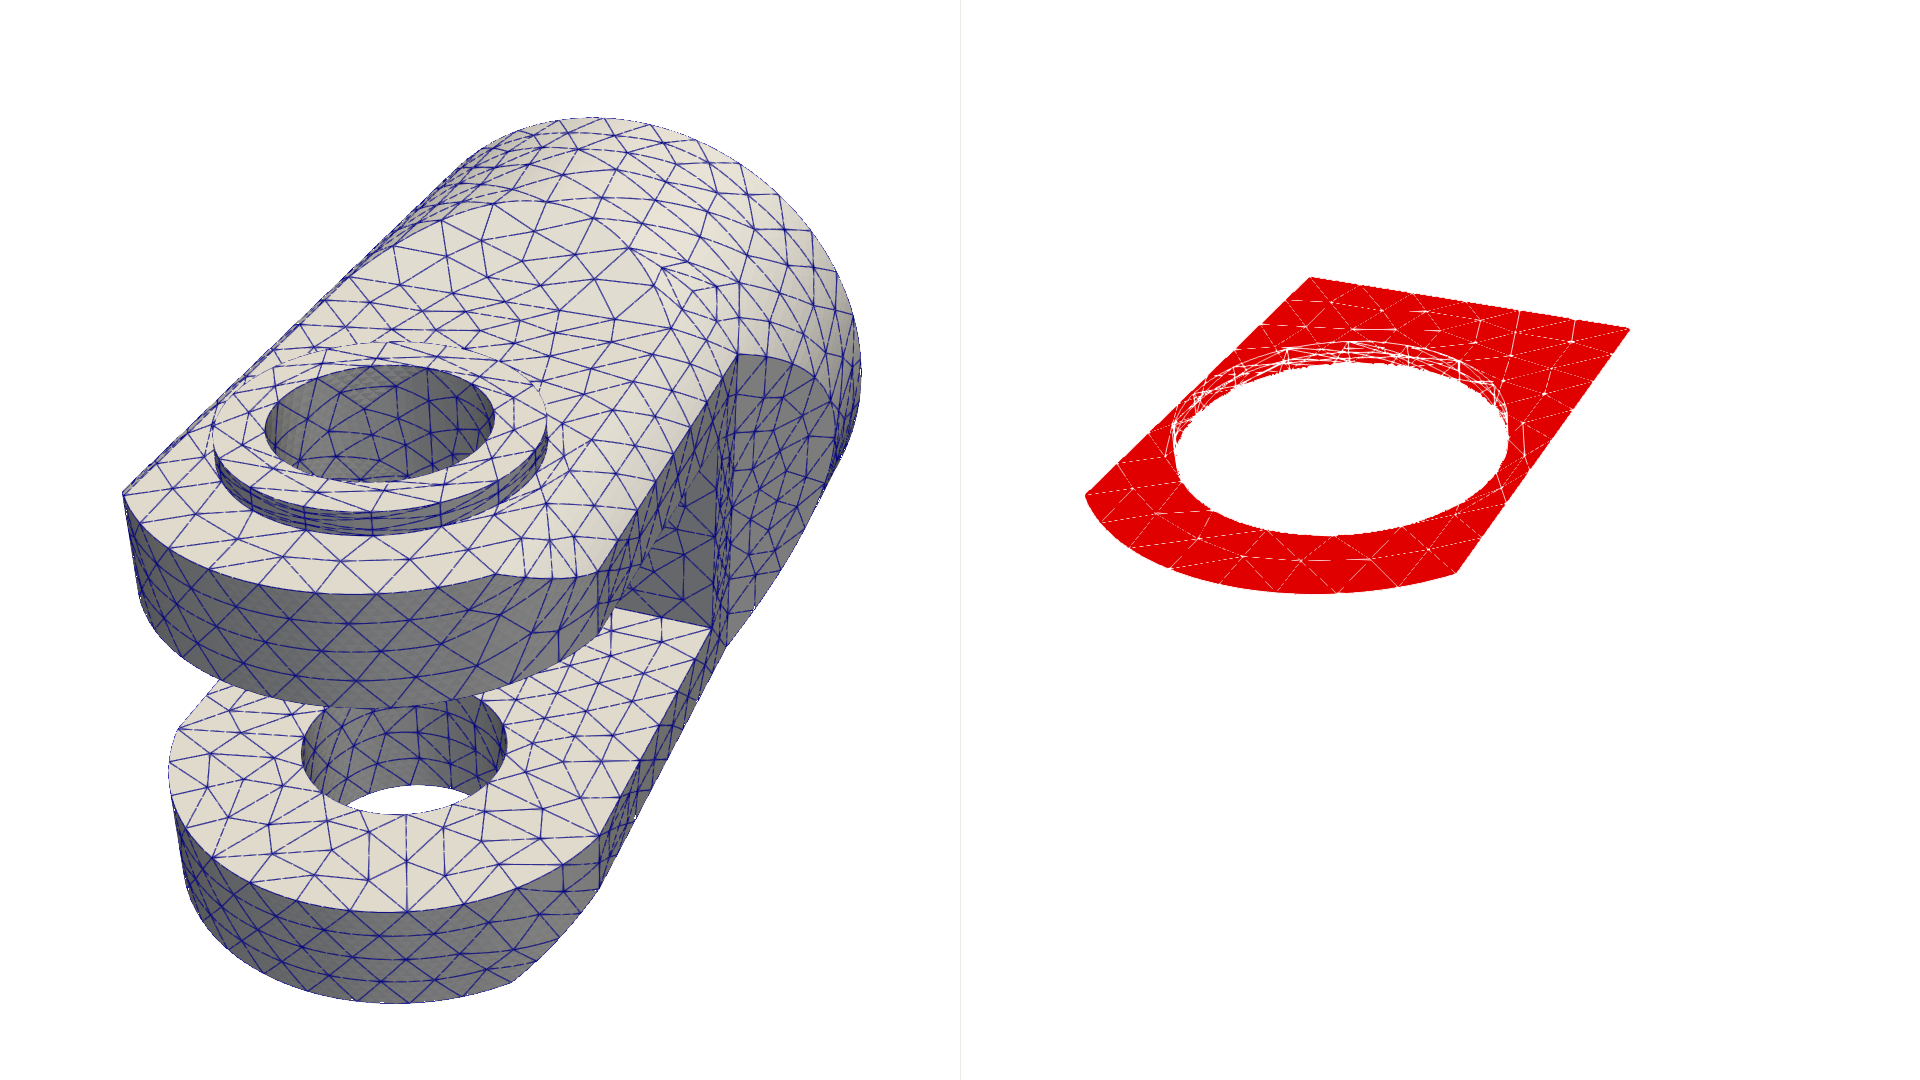
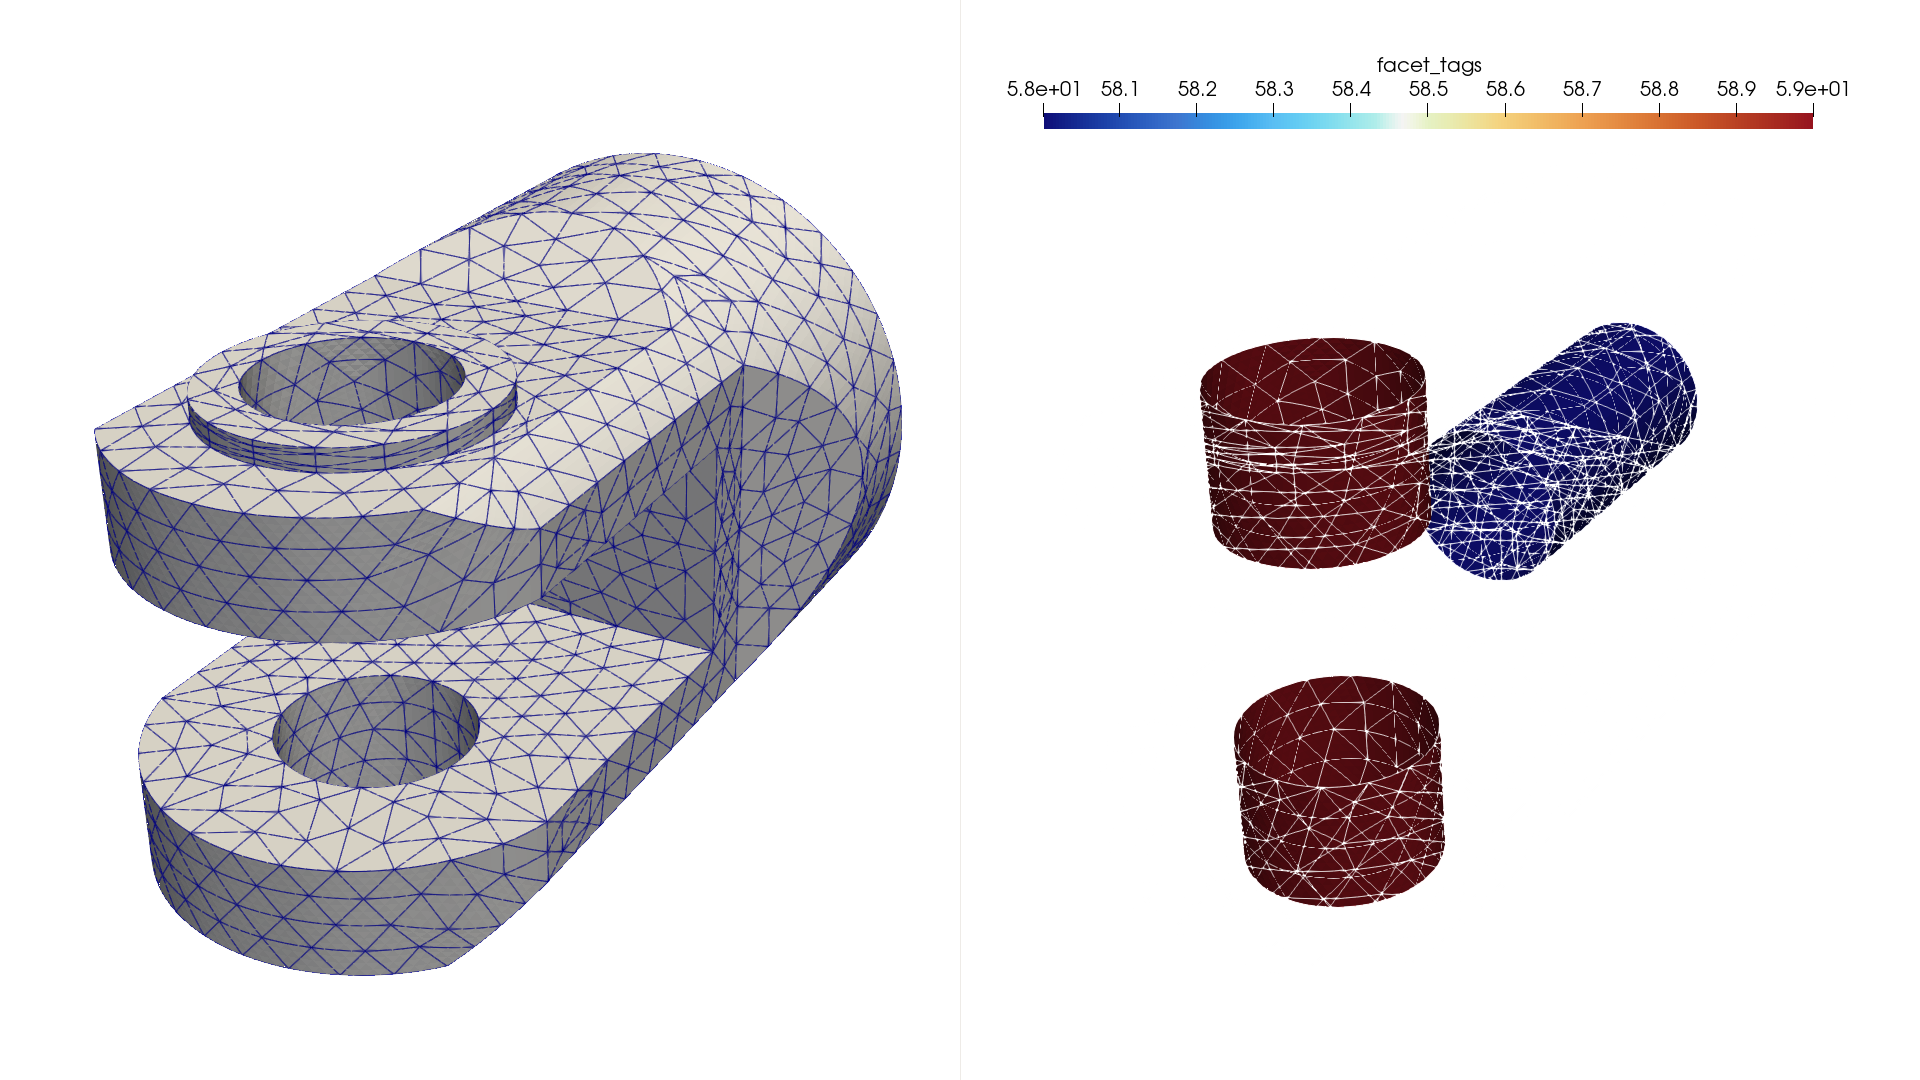
Improve tag viz

diff --git a/script.py b/script.py
@@ -25,15 +25,18 @@ facet_tags = mesh_data.facet_tags
 import pyvista
 
 grid = pyvista.UnstructuredGrid(*dolfinx.plot.vtk_mesh(domain))
-plotter = pyvista.Plotter()
+plotter = pyvista.Plotter(shape=(1, 2))
+plotter.subplot(0,0)
 plotter.add_mesh(grid, show_edges=True)
-plotter.show()
 
-# The grid is actually second order, to see this with pyvista we use
+# Additionally we add the facet markers
 
-plotter = pyvista.Plotter()
-curved_grid = grid.tessellate()
-plotter.add_mesh(curved_grid)
+markers = pyvista.UnstructuredGrid(*dolfinx.plot.vtk_mesh(domain, domain.topology.dim-1, facet_tags.indices))
+markers.cell_data["markers"] = facet_tags.values
+plotter.subplot(0,1)
+plotter.add_mesh(grid, style="wireframe")
+plotter.add_mesh(markers)
+plotter.link_views()
 plotter.show()
 
 # We can store the mesh to XDMF to visualize it in Paraview
